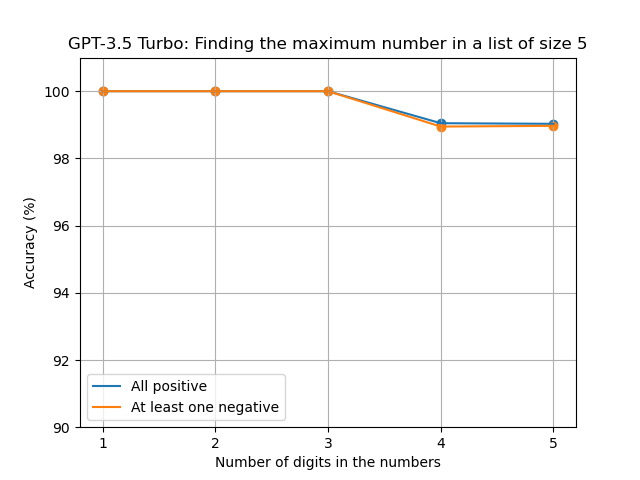
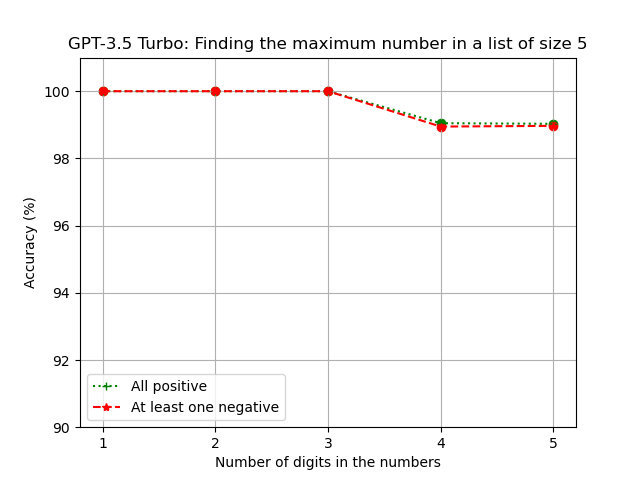
modify plots

diff --git a/code/eval_gpt/plots.py b/code/eval_gpt/plots.py
@@ -256,9 +256,9 @@ def plot_for_list_min(responses_path):
 
         plt.figure()
         x_range = np.arange(1, max_num_digits+1)
-        plt.plot(x_range, accuracies[0], label="All numbers are positive")
+        plt.plot(x_range, accuracies[0], label="All numbers are positive", linestyle=":", marker="+", color="green")
         plt.scatter(x_range, accuracies[0])
-        plt.plot(x_range, accuracies[1], label="At least one number is negative")
+        plt.plot(x_range, accuracies[1], label="At least one number is negative", linestyle="--", marker="*", color="red")
         plt.scatter(x_range, accuracies[1])
 
         plt.xlabel("Number of digits in the numbers")
@@ -349,10 +349,10 @@ def plot_for_list_max(responses_path):
 
             plt.figure()
             x_range = np.arange(1, max_num_digits+1)
-            plt.plot(x_range, accuracies[0], label="All positive")
-            plt.scatter(x_range, accuracies[0])
-            plt.plot(x_range, accuracies[1], label="At least one negative")
-            plt.scatter(x_range, accuracies[1])
+            plt.plot(x_range, accuracies[0], label="All positive", color="green", marker="+", linestyle=":")
+            plt.scatter(x_range, accuracies[0], color="green")
+            plt.plot(x_range, accuracies[1], label="At least one negative", color="red", linestyle="--", marker="*")
+            plt.scatter(x_range, accuracies[1], color="red")
 
             plt.xlabel("Number of digits in the numbers")
             plt.ylim(90, 101)
@@ -447,10 +447,10 @@ def plot_for_list_sort(responses_path):
             
         plt.figure()
         x_range = np.arange(1, max_num_digits+1)
-        plt.plot(x_range, accuracies[0], label="All numbers are positive")
-        plt.scatter(x_range, accuracies[0])
-        plt.plot(x_range, accuracies[1], label="At least one number is negative")
-        plt.scatter(x_range, accuracies[1])
+        plt.plot(x_range, accuracies[0], label="All numbers are positive", color="green", linestyle=":", marker="+")
+        plt.scatter(x_range, accuracies[0], color="green")
+        plt.plot(x_range, accuracies[1], label="At least one number is negative", color="red", linestyle="--", marker="*")
+        plt.scatter(x_range, accuracies[1], color="red")
 
         plt.xlabel("Number of digits in the numbers")
         plt.ylabel("Accuracy (%)")
